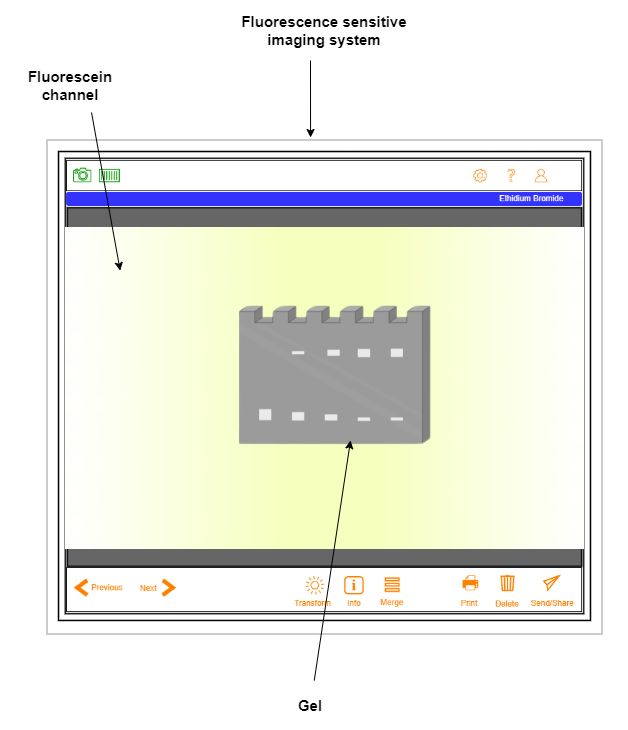
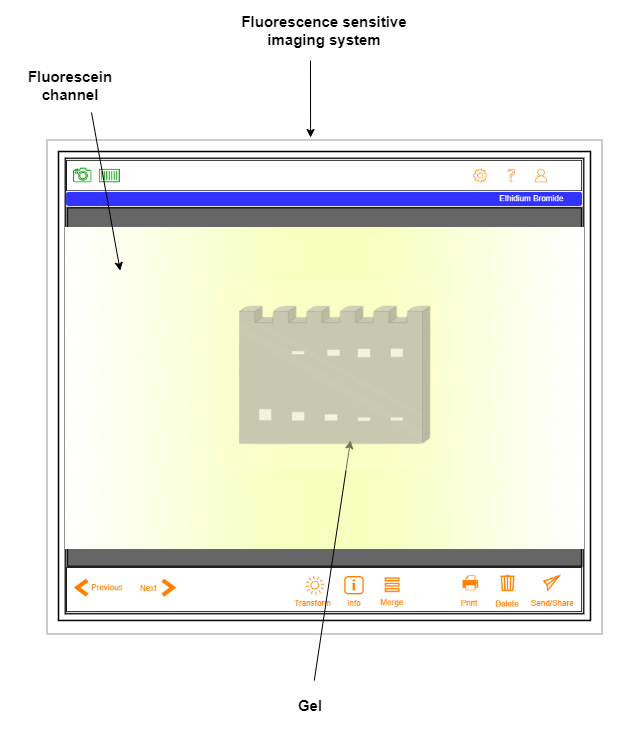
emsa

Changed region(s): [[0.3631, 0.4219, 0.6959, 0.6329]]

diff --git a/experiment/simulation/index.html b/experiment/simulation/index.html
@@ -289,7 +289,7 @@ Developer: Prakriti Dhang
 								<tr>
 									<td>Step 7</td>
 									<td><button class="btn btn-primary" type="button" id="viewsample"
-											onclick="view_sample_UVlight()" disabled> Visualize the protein-DNA
+											onclick="view_sample_UVlight()" > Visualize the protein-DNA
 										</button></td>
 								</tr>
 							</table>

diff --git a/experiment/simulation/css/main.css b/experiment/simulation/css/main.css
@@ -445,6 +445,7 @@ Developer: Prakriti Dhang
     top:175%;
     left: 45%;
     z-index: 10;
+    opacity: 65%;
 }
 
 /* Connect negative -negative  , positive-positive*/
